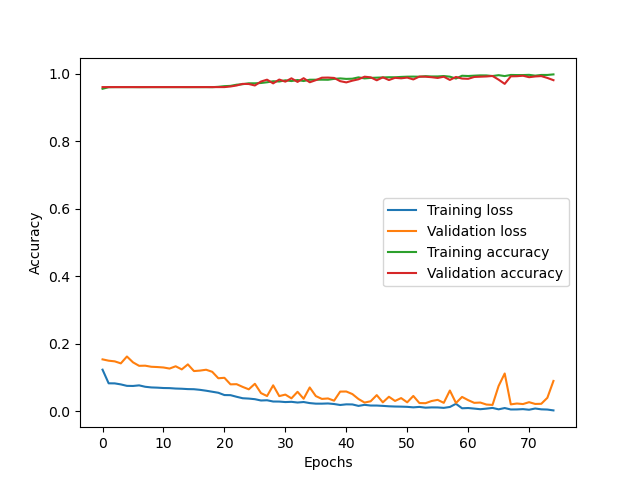
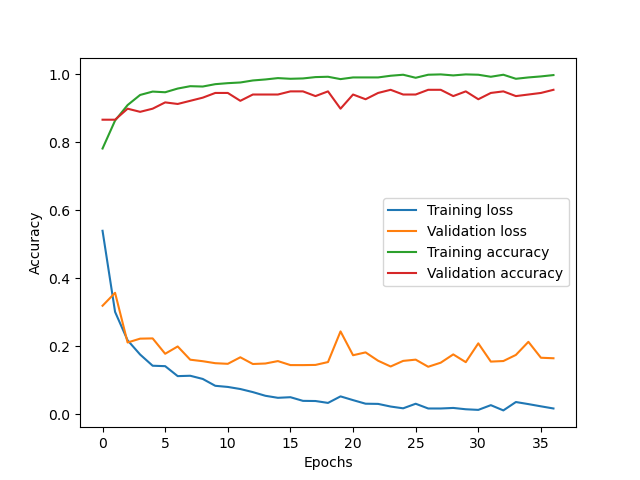
2023-08-06 17:49

diff --git a/linden/LindenClassification/2023-08-05/ClassificationLindenGen3.py b/linden/LindenClassification/2023-08-05/ClassificationLindenGen3.py
@@ -1,0 +1,170 @@
+import os
+import numpy as np
+import tensorflow as tf
+from PIL import Image
+from sklearn.model_selection import train_test_split
+from sklearn.metrics import classification_report
+from sklearn.utils.class_weight import compute_class_weight
+from sklearn.utils.class_weight import compute_sample_weight
+import matplotlib.pyplot as plt
+from sklearn.metrics import confusion_matrix, ConfusionMatrixDisplay
+import time
+import platform
+from tensorflow.python.framework.config import set_memory_growth
+from tqdm import tqdm
+from tensorflow.keras.applications import VGG16
+
+#width = 321
+#height = 384
+
+def load_images_and_labels(class_dirs):
+    imagefilenames, images_class0, images_class1, labels = [], [], [], []
+    max_width, max_height = 0, 0
+
+    total_files = sum([len(os.listdir(class_dir)) for class_dir in class_dirs])
+    with tqdm(total=total_files, desc="Loading images", dynamic_ncols=True) as pbar:
+        for label, class_dir in enumerate(class_dirs):
+            for img_file in os.listdir(class_dir):
+                if img_file.endswith('.jpg'):
+                    img_path = os.path.join(class_dir, img_file)
+                    img = Image.open(img_path).resize((321, 384))
+
+                    imagefilenames.append(img_file)
+                    if label == 0:
+                        images_class0.append(np.array(img))
+                    else:
+                        images_class1.append(np.array(img))
+                    labels.append(label)
+
+                    pbar.update(1)
+
+    # Balancing the classes
+    if len(images_class1) < len(images_class0):
+        selected_indices = np.random.choice(len(images_class0), len(images_class1), replace=False)
+        images_class0 = [images_class0[i] for i in selected_indices]
+    else:
+        selected_indices = np.random.choice(len(images_class1), len(images_class0), replace=False)
+        images_class1 = [images_class1[i] for i in selected_indices]
+
+    images = images_class0 + images_class1
+    labels = [0] * len(images_class0) + [1] * len(images_class1)
+
+    return np.array(images), np.array(labels)
+
+
+def load_images_and_labelsold(class_dirs):
+    imagefilenames, images, labels = [], [], []
+    max_width, max_height = 0, 0
+
+    total_files = sum([len(os.listdir(class_dir)) for class_dir in class_dirs])
+    with tqdm(total=total_files, desc="Loading images", dynamic_ncols=True) as pbar:
+        for label, class_dir in enumerate(class_dirs):
+            for img_file in os.listdir(class_dir):
+                if img_file.endswith('.jpg'):
+                    img_path = os.path.join(class_dir, img_file)
+                    img = Image.open(img_path).resize((321, 384))  # Dostosowanie rozmiaru do największych wymiarów
+
+                    imagefilenames.append(img_file)
+                    images.append(np.array(img))
+                    labels.append(label)
+
+                    pbar.update(1)
+
+    return np.array(images), np.array(labels)
+
+print(platform.python_version())
+print(tf.version.VERSION)
+print("Num of GPUs available: ", tf.test.gpu_device_name())
+
+start = time.process_time()
+
+class_dirs = ['Linden_Photos_WellExposed_ROIs/0', 'Linden_Photos_WellExposed_ROIs/1']
+
+images_list, labels = load_images_and_labels(class_dirs)
+
+print("Shape of images_list:", images_list.shape)
+print("Shape of labels:", labels.shape)
+
+unique_classes, counts = np.unique(labels, return_counts=True)
+
+for u, c in zip(unique_classes, counts):
+    print(f"Number of images in class {u}: {c}")
+
+print('After loaded images')
+print(time.process_time() - start)
+
+
+X_train, X_temp, y_train, y_temp = train_test_split(images_list, labels, stratify=labels, test_size=0.3,
+                                                    random_state=42)
+X_val, X_test, y_val, y_test = train_test_split(X_temp, y_temp, stratify=y_temp, test_size=0.5, random_state=42)
+
+# Computing class weights
+#class_weights = compute_sample_weight(class_weight='balanced', y=y_train)
+#class_weight_dict = dict(enumerate(class_weights))
+
+print(np.shape(X_train))
+print(np.shape(y_train))
+
+base_model = VGG16(weights='imagenet', include_top=False, input_shape=(384, 321, 3))
+
+# Zamrażanie warstw bazowego modelu
+for layer in base_model.layers:
+    layer.trainable = False
+
+model = tf.keras.Sequential([
+    base_model,
+    tf.keras.layers.GlobalAveragePooling2D(),
+    tf.keras.layers.Dense(128, activation='relu'),
+    tf.keras.layers.Dropout(0.1),
+    tf.keras.layers.Dense(2, activation='softmax')
+])
+
+# model = tf.keras.Sequential([
+#     tf.keras.layers.InputLayer(input_shape=(384, 321, 3)),
+#     tf.keras.layers.Conv2D(32, kernel_size=(3, 3), activation='relu'),
+#     tf.keras.layers.MaxPooling2D(pool_size=(2, 2)),
+#     tf.keras.layers.Conv2D(64, kernel_size=(3, 3), activation='relu'),
+#     tf.keras.layers.MaxPooling2D(pool_size=(2, 2)),
+#     tf.keras.layers.GlobalAveragePooling2D(),
+#     tf.keras.layers.Dense(64, activation='relu'),
+#     tf.keras.layers.Dropout(0.5),
+#     tf.keras.layers.Dense(2, activation='softmax')
+# ])
+
+model.compile(optimizer=tf.keras.optimizers.Adam(),
+              loss=tf.keras.losses.SparseCategoricalCrossentropy(),
+              metrics=['accuracy'])
+
+# Setting up model checkpoint
+checkpoint = tf.keras.callbacks.ModelCheckpoint('best_model_721.h5', monitor='val_loss', mode='min', save_best_only=True)
+
+early_stopping = tf.keras.callbacks.EarlyStopping(monitor='val_loss', patience=10, restore_best_weights=True)
+history = model.fit(X_train, y_train, batch_size=32, epochs=500, validation_data=(X_val, y_val), callbacks=[early_stopping, checkpoint])
+
+model.save('ClassificationLindenModelv3', save_format='tf')
+
+plt.plot(history.history['loss'], label='Training loss')
+plt.plot(history.history['val_loss'], label='Validation loss')
+plt.xlabel('Epochs')
+plt.ylabel('Loss')
+plt.legend()
+plt.savefig('Training_loss.png')
+
+plt.plot(history.history['accuracy'], label='Training accuracy')
+plt.plot(history.history['val_accuracy'], label='Validation accuracy')
+plt.xlabel('Epochs')
+plt.ylabel('Accuracy')
+plt.legend()
+plt.savefig('Training_accuracy.png')
+
+test_loss, test_accuracy = model.evaluate(X_test, y_test)
+
+print(f"Test accuracy: {test_accuracy:.2f}")
+
+y_pred = np.argmax(model.predict(X_test), axis=1)
+
+cm = confusion_matrix(y_test, y_pred)
+np.savetxt('confusion_matrix.csv', cm, delimiter=",")
+disp = ConfusionMatrixDisplay(confusion_matrix=cm, display_labels=['0', '1'])
+disp.plot(values_format='d')
+plt.savefig('confusion_matrix.png')

diff --git a/linden/LindenClassification/2023-08-05/ClassificationLindenTest2.py b/linden/LindenClassification/2023-08-05/ClassificationLindenTest2.py
@@ -48,7 +48,7 @@ def infer(image: np.ndarray):
     image = np.expand_dims(image, axis=0)
 
     # Konwersja danych na InferInput
-    infer_input = InferInput("input_1", image.shape, "FP32")
+    infer_input = InferInput("vgg16_input", image.shape, "FP32")
     # konwersja danych na odpowiedni format
     image = image.astype(np.float32)
     infer_input.set_data_from_numpy(image)
@@ -66,8 +66,8 @@ def infer(image: np.ndarray):
 
 # Wczytanie modelu
 
-#loaded_model = load_model('best_model.h5')
-#loaded_model = tf.keras.models.load_model('ClassificationLindenModelv2')
+#loaded_model = load_model('best_model_721.h5')
+#loaded_model = tf.keras.models.load_model('ClassificationLindenModelv3')
 
 # Określenie rozmiaru obrazów (na podstawie tego, co oczekuje model)
 # Dostosuj to do Twojego modelu!

diff --git a/DeploymentFastAPICeleryRabbitMQ/fast-api-celery/logic/grpcLindenClassification.py b/DeploymentFastAPICeleryRabbitMQ/fast-api-celery/logic/grpcLindenClassification.py
@@ -14,7 +14,7 @@ def infer(image: np.ndarray):
     image = np.expand_dims(image, axis=0)
 
     # Konwersja danych na InferInput
-    infer_input = InferInput("input_1", image.shape, "FP32")
+    infer_input = InferInput("vgg16_input", image.shape, "FP32")
     # konwersja danych na odpowiedni format
     image = image.astype(np.float32)
     infer_input.set_data_from_numpy(image)
